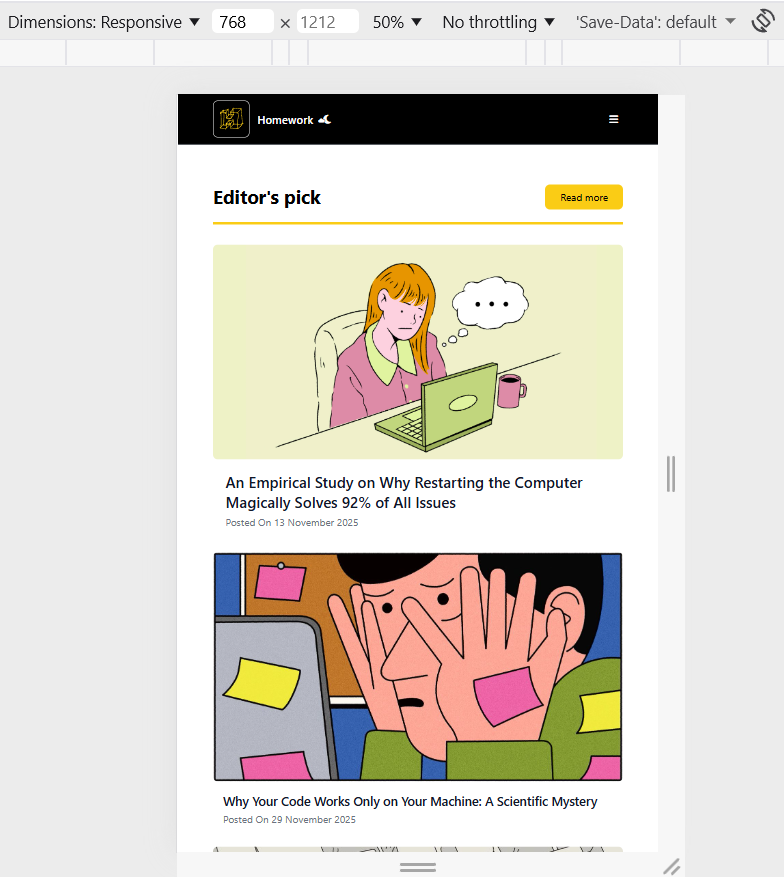
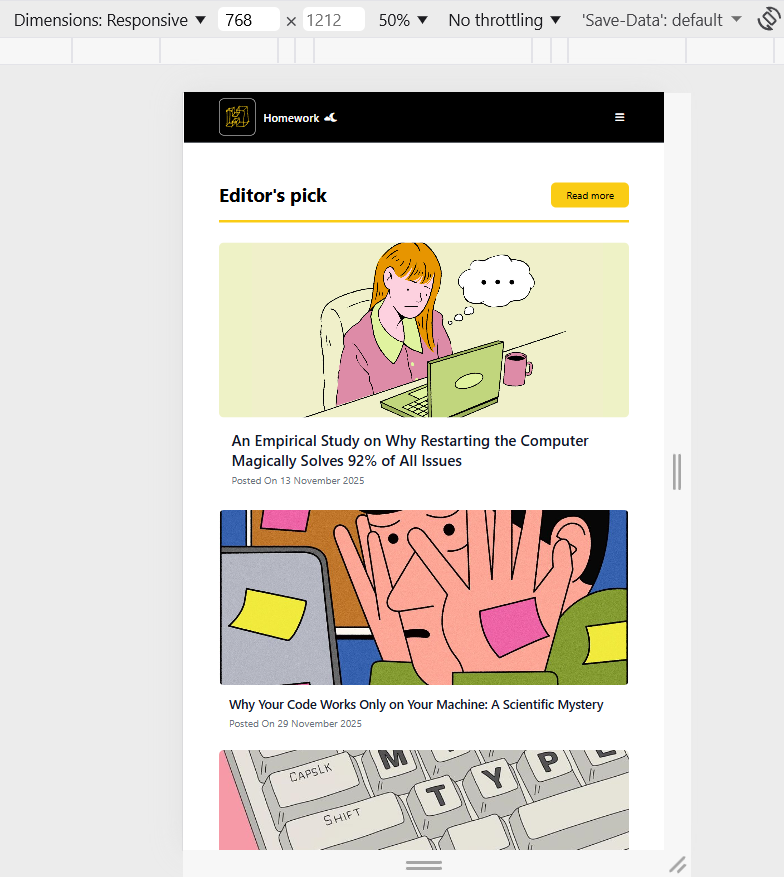
Edit_Ipad page

diff --git a/homework_B.html b/homework_B.html
@@ -88,7 +88,8 @@
             <img
               src="homework_B/image/Rust-out-web-scaled.jpg"
               alt="Featured"
-              class="w-full h-auto object-cover rounded-lg
+              class="w-full object-cover rounded-lg
+                     md:h-[280px]
                      lg:w-[613px] lg:h-[540px]"
               style="transform: rotate(0deg); opacity: 1"
             />
@@ -114,7 +115,8 @@
             <img
               src="homework_B/image/7d90427a82e7dbba452b4466ef77b282.jpg"
               alt="Article 2"
-              class="w-full h-auto object-cover rounded-lg
+              class="w-full object-cover rounded-lg
+                     md:h-[280px]
                      lg:w-[290px] lg:h-[190px]"
               style="transform: rotate(0deg); opacity: 1"
             />
@@ -139,7 +141,8 @@
             <img
               src="homework_B/image/4356e1e4cb5be1bb5e2ea9b1ec7b4c9e.jpg"
               alt="Article 3"
-              class="w-full h-auto object-cover rounded-lg
+              class="w-full object-cover rounded-lg
+                     md:h-[280px]
                      lg:w-[290px] lg:h-[190px]"
               style="transform: rotate(0deg); opacity: 1"
             />
@@ -164,7 +167,8 @@
             <img
               src="homework_B/image/4d1be00e0c189d4eb36bc44a491826ec.jpg"
               alt="Article 4"
-              class="w-full h-auto object-cover rounded-lg
+              class="w-full object-cover rounded-lg
+                     md:h-[280px]
                      lg:w-[290px] lg:h-[190px]"
               style="transform: rotate(0deg); opacity: 1"
             />
@@ -190,7 +194,8 @@
             <img
               src="homework_B/image/2c1f60b9b73db1b702f330276bd8781d.jpg"
               alt="Article 5"
-              class="w-full h-auto object-cover rounded-lg
+              class="w-full object-cover rounded-lg
+                     md:h-[280px]
                      lg:w-[290px] lg:h-[190px]"
               style="transform: rotate(0deg); opacity: 1"
             />
